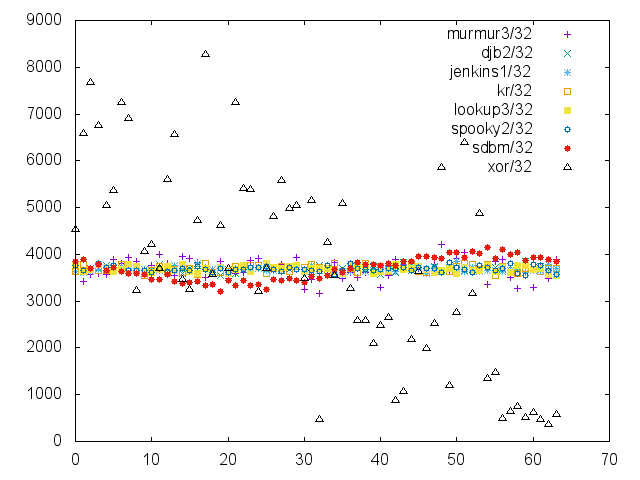
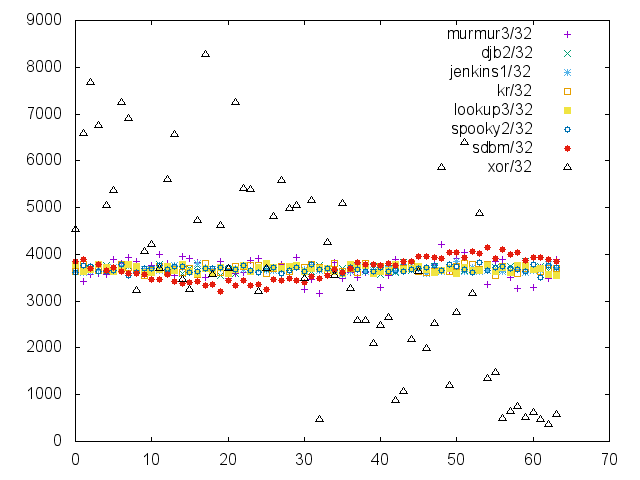
Better timing benchmarks / analysis

diff --git a/run.c b/run.c
@@ -119,9 +119,38 @@ int main(int argc, char **argv)
 			l = strlen(buf);
 			for (j = 0; j < NUM_ALGOS; j++) {
 				timed(&t) {
-					(algos[i].fn)(buf, l, 0);
+					/* 10 */
+					(algos[j].fn)(buf, l, 0); (algos[j].fn)(buf, l, 0);
+					(algos[j].fn)(buf, l, 0); (algos[j].fn)(buf, l, 0);
+					(algos[j].fn)(buf, l, 0); (algos[j].fn)(buf, l, 0);
+					(algos[j].fn)(buf, l, 0); (algos[j].fn)(buf, l, 0);
+					(algos[j].fn)(buf, l, 0); (algos[j].fn)(buf, l, 0);
+					/* 20 */
+					(algos[j].fn)(buf, l, 0); (algos[j].fn)(buf, l, 0);
+					(algos[j].fn)(buf, l, 0); (algos[j].fn)(buf, l, 0);
+					(algos[j].fn)(buf, l, 0); (algos[j].fn)(buf, l, 0);
+					(algos[j].fn)(buf, l, 0); (algos[j].fn)(buf, l, 0);
+					(algos[j].fn)(buf, l, 0); (algos[j].fn)(buf, l, 0);
+					/* 30 */
+					(algos[j].fn)(buf, l, 0); (algos[j].fn)(buf, l, 0);
+					(algos[j].fn)(buf, l, 0); (algos[j].fn)(buf, l, 0);
+					(algos[j].fn)(buf, l, 0); (algos[j].fn)(buf, l, 0);
+					(algos[j].fn)(buf, l, 0); (algos[j].fn)(buf, l, 0);
+					(algos[j].fn)(buf, l, 0); (algos[j].fn)(buf, l, 0);
+					/* 40 */
+					(algos[j].fn)(buf, l, 0); (algos[j].fn)(buf, l, 0);
+					(algos[j].fn)(buf, l, 0); (algos[j].fn)(buf, l, 0);
+					(algos[j].fn)(buf, l, 0); (algos[j].fn)(buf, l, 0);
+					(algos[j].fn)(buf, l, 0); (algos[j].fn)(buf, l, 0);
+					(algos[j].fn)(buf, l, 0); (algos[j].fn)(buf, l, 0);
+					/* 50 */
+					(algos[j].fn)(buf, l, 0); (algos[j].fn)(buf, l, 0);
+					(algos[j].fn)(buf, l, 0); (algos[j].fn)(buf, l, 0);
+					(algos[j].fn)(buf, l, 0); (algos[j].fn)(buf, l, 0);
+					(algos[j].fn)(buf, l, 0); (algos[j].fn)(buf, l, 0);
+					(algos[j].fn)(buf, l, 0); (algos[j].fn)(buf, l, 0);
 				}
-				printf("%s%llu", j > 0 ? "\t" : "", timer_value(&t));
+				printf("%s%llu", j > 0 ? "\t" : "", timer_value(&t) / 50);
 			}
 			printf("\n");
 		}
